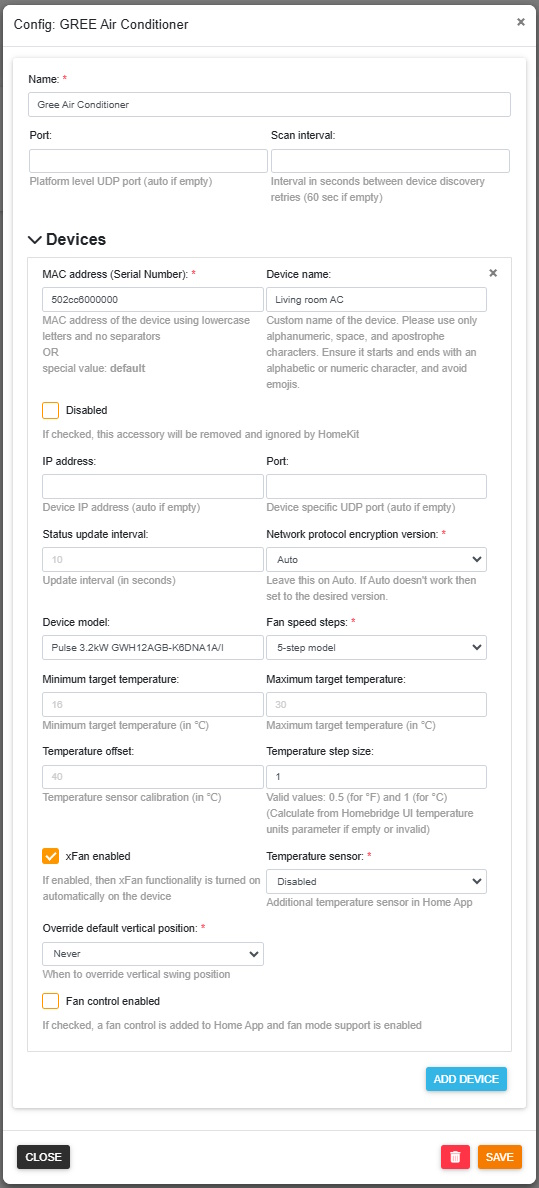
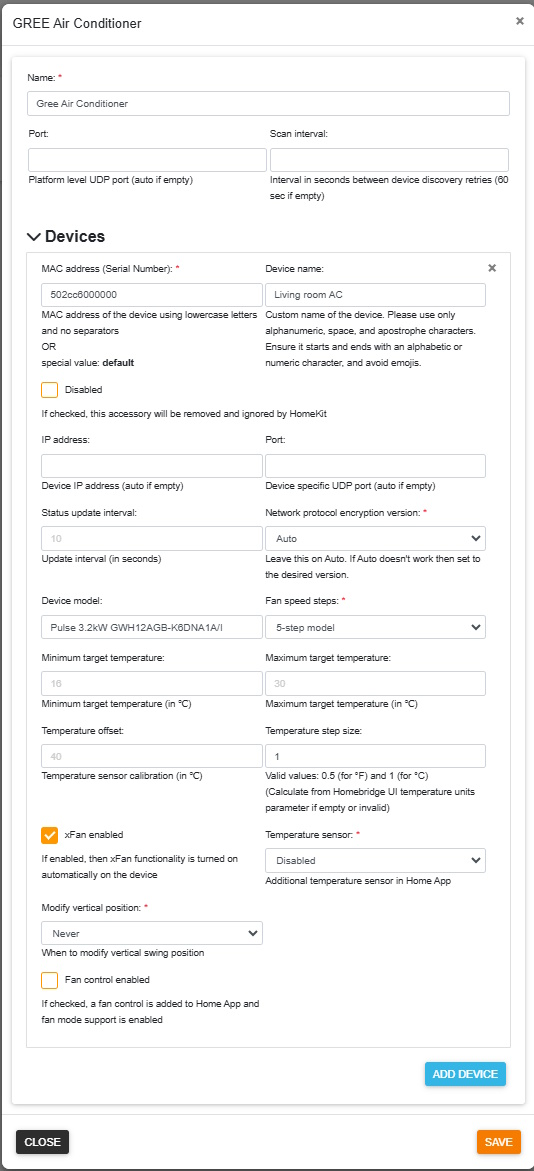
Extended vertical swing position configuration

diff --git a/src/platformAccessory.ts b/src/platformAccessory.ts
@@ -2,7 +2,7 @@ import dgram from 'dgram';
 import { Service, CharacteristicValue } from 'homebridge';
 
 import { GreeACPlatform, MyPlatformAccessory } from './platform';
-import { PLATFORM_NAME, PLUGIN_NAME, DeviceConfig, TEMPERATURE_TABLE, OVERRIDE_DEFAULT_SWING, TS_TYPE, BINDING_TIMEOUT,
+import { PLATFORM_NAME, PLUGIN_NAME, DeviceConfig, TEMPERATURE_TABLE, MODIFY_VERTICAL_SWING_POSITION, TS_TYPE, BINDING_TIMEOUT,
   TEMPERATURE_LIMITS, DEFAULT_DEVICE_CONFIG } from './settings';
 import { GreeAirConditionerTS } from './tsAccessory';
 import crypto from './crypto';
@@ -271,7 +271,7 @@ export class GreeAirConditioner {
       .onSet(this.setSwingMode.bind(this));
     this.Fan?.getCharacteristic(this.platform.Characteristic.SwingMode)
       .onGet(this.getSwingMode.bind(this))
-      .onSet(this.setSwingMode.bind(this));
+      .onSet(this.setFanSwingMode.bind(this));
 
     // register handlers for the Rotation Speed Characteristic
     this.HeaterCooler.getCharacteristic(this.platform.Characteristic.RotationSpeed)
@@ -368,10 +368,25 @@ export class GreeAirConditioner {
 
   async setSwingMode(value: CharacteristicValue) {
     const logValue = (value === this.platform.Characteristic.SwingMode.SWING_ENABLED) ? 'ENABLED' : 'DISABLED';
-    this.platform.log.debug(`[${this.getDeviceLabel()}] Set SwingMode ->`, logValue);
     this.swingMode = (value === this.platform.Characteristic.SwingMode.SWING_ENABLED) ?
-      commands.swingVertical.value.full : (this.deviceConfig.overrideDefaultVerticalSwing === OVERRIDE_DEFAULT_SWING.always) ?
-        this.deviceConfig.defaultVerticalSwing || DEFAULT_DEVICE_CONFIG.defaultVerticalSwing : commands.swingVertical.value.default;
+      commands.swingVertical.value.full : ([MODIFY_VERTICAL_SWING_POSITION.overrideDefPowerOnOscDisable,
+        MODIFY_VERTICAL_SWING_POSITION.setPowerOnOscDisable].includes(this.deviceConfig.modifyVerticalSwingPosition ||
+        DEFAULT_DEVICE_CONFIG.modifyVerticalSwingPosition) ? this.deviceConfig.defaultVerticalSwing ||
+        DEFAULT_DEVICE_CONFIG.defaultVerticalSwing : DEFAULT_DEVICE_CONFIG.defaultVerticalSwing);
+    this.platform.log.debug(`[${this.getDeviceLabel()}] Set SwingMode ->`, logValue + (logValue === 'DISABLED' ?
+      ` (Position: ${this.getKeyName(commands.swingVertical.value, this.swingMode)})` : ''));
+  }
+
+  async setFanSwingMode(value: CharacteristicValue) {
+    const logValue = (value === this.platform.Characteristic.SwingMode.SWING_ENABLED) ? 'ENABLED' : 'DISABLED';
+    this.swingMode = (value === this.platform.Characteristic.SwingMode.SWING_ENABLED) ?
+      commands.swingVertical.value.full : (this.deviceConfig.modifyVerticalSwingPosition ===
+        MODIFY_VERTICAL_SWING_POSITION.overrideDefPowerOnOscDisable ? this.deviceConfig.defaultVerticalSwing ||
+        DEFAULT_DEVICE_CONFIG.defaultVerticalSwing : (this.deviceConfig.modifyVerticalSwingPosition ===
+        MODIFY_VERTICAL_SWING_POSITION.setPowerOnOscDisable ? this.deviceConfig.defaultFanVerticalSwing ||
+        DEFAULT_DEVICE_CONFIG.defaultFanVerticalSwing : DEFAULT_DEVICE_CONFIG.defaultFanVerticalSwing));
+    this.platform.log.debug(`[${this.getDeviceLabel()}] Set Fan SwingMode ->`, logValue + (logValue === 'DISABLED' ?
+      ` (Position: ${this.getKeyName(commands.swingVertical.value, this.swingMode)})` : ''));
   }
 
   async setRotationSpeed(value: CharacteristicValue) {
@@ -995,8 +1010,11 @@ export class GreeAirConditioner {
               break;
           }
         }
-        if ([OVERRIDE_DEFAULT_SWING.always, OVERRIDE_DEFAULT_SWING.powerOn].includes(this.deviceConfig.overrideDefaultVerticalSwing ||
-          DEFAULT_DEVICE_CONFIG.overrideDefaultVerticalSwing) && this.swingMode === commands.swingVertical.value.default) {
+        if (([MODIFY_VERTICAL_SWING_POSITION.overrideDefPowerOnOscDisable, MODIFY_VERTICAL_SWING_POSITION.overrideDefPowerOn].includes(
+          this.deviceConfig.modifyVerticalSwingPosition || DEFAULT_DEVICE_CONFIG.modifyVerticalSwingPosition) &&
+          this.swingMode === commands.swingVertical.value.default) || ([MODIFY_VERTICAL_SWING_POSITION.setPowerOnOscDisable,
+          MODIFY_VERTICAL_SWING_POSITION.setPowerOn].includes(this.deviceConfig.modifyVerticalSwingPosition ||
+          DEFAULT_DEVICE_CONFIG.modifyVerticalSwingPosition))) {
           const value = this.deviceConfig.defaultVerticalSwing || DEFAULT_DEVICE_CONFIG.defaultVerticalSwing;
           command[commands.swingVertical.code] = value;
           logValue += (logValue ? ', ' : '') + 'swingVertical -> ' + this.getKeyName(commands.swingVertical.value, value);
@@ -1034,9 +1052,15 @@ export class GreeAirConditioner {
         command[commands.powerfulMode.code] = commands.powerfulMode.value.off;
         logValue += (logValue ? ', ' : '') + 'powerfulMode -> ' +
         this.getKeyName(commands.powerfulMode.value, commands.powerfulMode.value.off);
-        if ([OVERRIDE_DEFAULT_SWING.always, OVERRIDE_DEFAULT_SWING.powerOn].includes(this.deviceConfig.overrideDefaultVerticalSwing ||
-          DEFAULT_DEVICE_CONFIG.overrideDefaultVerticalSwing) && this.swingMode === commands.swingVertical.value.default) {
+        if ([MODIFY_VERTICAL_SWING_POSITION.overrideDefPowerOnOscDisable, MODIFY_VERTICAL_SWING_POSITION.overrideDefPowerOn].includes(
+          this.deviceConfig.modifyVerticalSwingPosition || DEFAULT_DEVICE_CONFIG.modifyVerticalSwingPosition) &&
+          this.swingMode === commands.swingVertical.value.default) {
           const value = this.deviceConfig.defaultVerticalSwing || DEFAULT_DEVICE_CONFIG.defaultVerticalSwing;
+          command[commands.swingVertical.code] = value;
+          logValue += (logValue ? ', ' : '') + 'swingVertical -> ' + this.getKeyName(commands.swingVertical.value, value);
+        } else if ([MODIFY_VERTICAL_SWING_POSITION.setPowerOnOscDisable, MODIFY_VERTICAL_SWING_POSITION.setPowerOn].includes(
+          this.deviceConfig.modifyVerticalSwingPosition || DEFAULT_DEVICE_CONFIG.modifyVerticalSwingPosition)) {
+          const value = this.deviceConfig.defaultFanVerticalSwing || DEFAULT_DEVICE_CONFIG.defaultFanVerticalSwing;
           command[commands.swingVertical.code] = value;
           logValue += (logValue ? ', ' : '') + 'swingVertical -> ' + this.getKeyName(commands.swingVertical.value, value);
         }

diff --git a/src/platform.ts b/src/platform.ts
@@ -4,7 +4,7 @@ import { API, DynamicPlatformPlugin, Logger, PlatformAccessory, PlatformConfig, 
 import { networkInterfaces } from 'os';
 import { readFileSync } from 'fs';
 
-import { PLATFORM_NAME, PLUGIN_NAME, UDP_SCAN_PORT, DEFAULT_DEVICE_CONFIG, OVERRIDE_DEFAULT_SWING, ENCRYPTION_VERSION, TS_TYPE,
+import { PLATFORM_NAME, PLUGIN_NAME, UDP_SCAN_PORT, DEFAULT_DEVICE_CONFIG, MODIFY_VERTICAL_SWING_POSITION, ENCRYPTION_VERSION, TS_TYPE,
   DEF_SCAN_INTERVAL, TEMPERATURE_LIMITS, TEMPERATURE_STEPS} from './settings';
 import { GreeAirConditioner } from './platformAccessory';
 import commands from './commands';
@@ -204,8 +204,17 @@ export class GreeACPlatform implements DynamicPlatformPlugin {
         commands.swingVertical.value.fixedHigher, commands.swingVertical.value.fixedMiddle, commands.swingVertical.value.fixedLower,
         commands.swingVertical.value.fixedLowest].includes(devcfg.defaultVerticalSwing) ?
         { defaultVerticalSwing: DEFAULT_DEVICE_CONFIG.defaultVerticalSwing } : {}),
-      ...(devcfg.overrideDefaultVerticalSwing && !Object.values(OVERRIDE_DEFAULT_SWING).includes(devcfg.overrideDefaultVerticalSwing) ?
-        { overrideDefaultVerticalSwing: DEFAULT_DEVICE_CONFIG.overrideDefaultVerticalSwing } : {}),
+      ...(devcfg.defaultFanVerticalSwing && ![commands.swingVertical.value.default, commands.swingVertical.value.fixedHighest,
+        commands.swingVertical.value.fixedHigher, commands.swingVertical.value.fixedMiddle, commands.swingVertical.value.fixedLower,
+        commands.swingVertical.value.fixedLowest].includes(devcfg.defaultFanVerticalSwing) ?
+        { defaultFanVerticalSwing: DEFAULT_DEVICE_CONFIG.defaultFanVerticalSwing } : {}),
+      // overrideDefaultVerticalSwing remains here for compatibility reasons
+      ...(devcfg.overrideDefaultVerticalSwing &&
+        !Object.values(MODIFY_VERTICAL_SWING_POSITION).includes(devcfg.overrideDefaultVerticalSwing) ?
+        { overrideDefaultVerticalSwing: DEFAULT_DEVICE_CONFIG.modifyVerticalSwingPosition } : {}),
+      ...(devcfg.modifyVerticalSwingPosition &&
+        !Object.values(MODIFY_VERTICAL_SWING_POSITION).includes(devcfg.modifyVerticalSwingPosition) ?
+        { modifyVerticalSwingPosition: DEFAULT_DEVICE_CONFIG.modifyVerticalSwingPosition } : {}),
       ...(devcfg.encryptionVersion && !Object.values(ENCRYPTION_VERSION).includes(devcfg.encryptionVersion) ?
         { encryptionVersion: DEFAULT_DEVICE_CONFIG.encryptionVersion } : {}),
     };
@@ -266,10 +275,24 @@ export class GreeACPlatform implements DynamicPlatformPlugin {
       commands.swingVertical.value.fixedHigher, commands.swingVertical.value.fixedMiddle, commands.swingVertical.value.fixedLower,
       commands.swingVertical.value.fixedLowest].includes(deviceConfig.defaultVerticalSwing)) {
       deviceConfig.defaultVerticalSwing = DEFAULT_DEVICE_CONFIG.defaultVerticalSwing;
+      this.log.warn('Warning: Invalid vertical position detected ->',
+        `Accessory ${deviceInfo.mac} is using default value instead of the configured one`);
     }
+    if (deviceConfig.defaultFanVerticalSwing && ![commands.swingVertical.value.default, commands.swingVertical.value.fixedHighest,
+      commands.swingVertical.value.fixedHigher, commands.swingVertical.value.fixedMiddle, commands.swingVertical.value.fixedLower,
+      commands.swingVertical.value.fixedLowest].includes(deviceConfig.defaultFanVerticalSwing)) {
+      deviceConfig.defaultFanVerticalSwing = DEFAULT_DEVICE_CONFIG.defaultFanVerticalSwing;
+      this.log.warn('Warning: Invalid vertical fan position detected ->',
+        `Accessory ${deviceInfo.mac} is using default value instead of the configured one`);
+    }
+    // overrideDefaultVerticalSwing remains here for compatibility reasons
     if (deviceConfig.overrideDefaultVerticalSwing &&
-      !Object.values(OVERRIDE_DEFAULT_SWING).includes(deviceConfig.overrideDefaultVerticalSwing)) {
-      deviceConfig.overrideDefaultVerticalSwing = DEFAULT_DEVICE_CONFIG.overrideDefaultVerticalSwing;
+      !Object.values(MODIFY_VERTICAL_SWING_POSITION).includes(deviceConfig.overrideDefaultVerticalSwing)) {
+      deviceConfig.overrideDefaultVerticalSwing = DEFAULT_DEVICE_CONFIG.modifyVerticalSwingPosition;
+    }
+    if (deviceConfig.modifyVerticalSwingPosition &&
+      !Object.values(MODIFY_VERTICAL_SWING_POSITION).includes(deviceConfig.modifyVerticalSwingPosition)) {
+      deviceConfig.modifyVerticalSwingPosition = DEFAULT_DEVICE_CONFIG.modifyVerticalSwingPosition;
     }
     if (deviceConfig.encryptionVersion && !Object.values(ENCRYPTION_VERSION).includes(deviceConfig.encryptionVersion)) {
       deviceConfig.encryptionVersion = DEFAULT_DEVICE_CONFIG.encryptionVersion;
@@ -279,6 +302,19 @@ export class GreeACPlatform implements DynamicPlatformPlugin {
       this.log.warn('Warning: Port is misconfigured (Valid port values: 1025~65535 or leave port empty to auto select) - ' +
         `Accessory ${deviceInfo.mac} listening port overridden: ${deviceConfig.port} -> auto`);
       delete deviceConfig.port;
+    }
+    // replace deprecated overrideDefaultVerticalSwing with new modifyVerticalSwingPosition
+    if (deviceConfig.overrideDefaultVerticalSwing !== undefined && !deviceConfig.modifyVerticalSwingPosition) {
+      // found deprecated but missing new
+      this.log.warn('Deprecated configuration parameter found: overrideDefaultVerticalSwing - ' +
+        `Accessory ${deviceInfo.mac} parameter value: ${deviceConfig.overrideDefaultVerticalSwing} -> use modifyVerticalSwingPosition`);
+      deviceConfig.modifyVerticalSwingPosition = deviceConfig.overrideDefaultVerticalSwing;
+      delete deviceConfig.overrideDefaultVerticalSwing;
+    } else if (deviceConfig.overrideDefaultVerticalSwing !== undefined && deviceConfig.modifyVerticalSwingPosition !== undefined) {
+      // found both deprecated and new -> keep new only
+      this.log.warn('Deprecated configuration parameter found: overrideDefaultVerticalSwing - ' +
+        `Accessory ${deviceInfo.mac} parameter value: ${deviceConfig.overrideDefaultVerticalSwing} -> ignoring`);
+      delete deviceConfig.overrideDefaultVerticalSwing;
     }
     // force encryption version if set in config
     if (deviceConfig.encryptionVersion !== ENCRYPTION_VERSION.auto) {

diff --git a/src/settings.ts b/src/settings.ts
@@ -9,10 +9,12 @@ export const PLATFORM_NAME = 'GREEAirConditioner';
  */
 export const PLUGIN_NAME = 'homebridge-gree-ac';
 
-export const OVERRIDE_DEFAULT_SWING = {
+export const MODIFY_VERTICAL_SWING_POSITION = {
   never: 0,
-  powerOn: 1,
-  always: 2,
+  overrideDefPowerOn: 1,
+  overrideDefPowerOnOscDisable: 2,
+  setPowerOn: 3,
+  setPowerOnOscDisable: 4,
 };
 
 export const ENCRYPTION_VERSION = {
@@ -45,7 +47,9 @@ export interface DeviceConfig {
   temperatureStepSize?: number;
   disabled?: boolean;
   defaultVerticalSwing?: number;
-  overrideDefaultVerticalSwing?: number;
+  defaultFanVerticalSwing?: number;
+  overrideDefaultVerticalSwing?: number; // deprecated, new parameter: modifyVerticalSwingPosition
+  modifyVerticalSwingPosition?: number;
   encryptionVersion?: number;
   port?: number;
   ip?: string;
@@ -56,7 +60,8 @@ export interface DeviceConfig {
 interface DefaultDeviceConfig extends DeviceConfig {
   temperatureStepSize: number;
   defaultVerticalSwing: number;
-  overrideDefaultVerticalSwing: number;
+  defaultFanVerticalSwing: number;
+  modifyVerticalSwingPosition: number;
   encryptionVersion: number;
 }
 
@@ -70,7 +75,8 @@ export const DEFAULT_DEVICE_CONFIG: DefaultDeviceConfig = {
   temperatureSensor: TS_TYPE.disabled,
   temperatureStepSize: TEMPERATURE_STEPS.fahrenheit,
   defaultVerticalSwing: commands.swingVertical.value.default,
-  overrideDefaultVerticalSwing: OVERRIDE_DEFAULT_SWING.never,
+  defaultFanVerticalSwing: commands.swingVertical.value.default,
+  modifyVerticalSwingPosition: MODIFY_VERTICAL_SWING_POSITION.never,
   encryptionVersion: ENCRYPTION_VERSION.auto,
 };
 

diff --git a/README.md b/README.md
@@ -27,7 +27,7 @@ xFan function is supported, but it works automatically if enabled in Homebridge 
 
 Temperature display units of the physical device can be controlled using the Home App. (Configuration settings are required to be specified always in Degrees Celsius, independently from the display units.)
 
-Vertical swing mode can be turned on/off, but special swing settings can't be controlled using the Home App. If device default vertical swing position is not acceptable when oscillation is disabled, it can be overridden to a pre selected position by configuration settings. (Only default position is overridden when this feature is enabled. Other positions selected by remote control are kept and not modified by Home App.)
+Vertical swing mode can be turned on/off, but special swing settings can't be controlled using the Home App. If device default vertical swing position is not acceptable when oscillation is disabled, it can be set to a pre selected position by configuration settings. (There are multiple options for configuring the plugin to update the vertical swing position.)
 
 This plugin is designed to be as simple and clear as possible and supports primarily the functions of the Home App's Heater Cooler accessory.
 
@@ -83,12 +83,19 @@ If successfully installed and configured, your devices will appear on the Homebr
 
 Always check out your current settings in Homebridge and also in Home App (including scenes and automation rules) before you start an upgrade!
 
-### Any version to v2.1.7 - v2.2.0
+### v2.1.7 to v2.2.0
 
-The upgrade is automatic by installing the latest version. If upgrading from v2.1.6 or later no configuration changes are needed to continue the use of the plugin with original settings. Please see the following upgrade sections if upgrading from an earlier version.
+The upgrade is automatic by installing the latest version. It is highly recommended to update the configuration settings because some new parameters were introduced in v2.2.0 and there is also a parameter which was renamed.
 
 Fan mode support is new in version v2.2.0. It is disabled by default. To enable it the "fanControlEnabled" parameter must be set in configuration file.
-In v2.2.0 it is also possible to set default customized parameters for multiple devices by adding a special device with MAC address set to 'default'. To use this feature it is required to update the plugin's configuration.
+
+In v2.2.0 it is also possible to set default customized parameters for multiple devices by adding a special device with MAC address set to 'default'.
+
+The "overrideDefaultVerticalSwing" configuration parameter was renamed to "modifyVerticalSwingPosition" and new options were added to support some new cases.
+
+### Any version to v2.1.7
+
+The upgrade is automatic by installing the latest version. If upgrading from v2.1.6 no configuration changes are needed to continue the use of the plugin with original settings. Please see the following upgrade sections if upgrading from an earlier version.
 
 **Important change: All devices are automatically added to the Home App if they are not listed and disabled in configuration and they are located on the same subnet.** Earlier versions skipped the devices which were not found in configuration file.
 
@@ -221,9 +228,10 @@ It is possible to set some or all parameters to a customized value which is assi
                     "temperatureStepSize": 1,
                     "temperatureSensor": "disabled",
                     "xFanEnabled": true,
-                    "overrideDefaultVerticalSwing": 0,
+                    "modifyVerticalSwingPosition": 0,
                     "defaultVerticalSwing": 0,
                     "fanControlEnabled": false,
+                    "defaultFanVerticalSwing": 0,
                     "disabled": false
                 }
             ]
@@ -270,9 +278,10 @@ You can always override any default parameter by adding a device identified by M
                     "temperatureStepSize": 1,
                     "temperatureSensor": "disabled",
                     "xFanEnabled": true,
-                    "overrideDefaultVerticalSwing": 0,
+                    "modifyVerticalSwingPosition": 0,
                     "defaultVerticalSwing": 0,
                     "fanControlEnabled": false,
+                    "defaultFanVerticalSwing": 0,
                     "disabled": false
                 }
             ]
@@ -300,9 +309,10 @@ _It's not recommended to add the port and ip parameters. The above example conta
   * **temperatureStepSize*** - numeric parameter, valid values: 0.5 and 1 (if missing then default value is based on the UI configuration: 0.5 if UI is set to Fahrenheit temperature units and 1 if UI is set to Celsius temperature units) Controls the acceptable temperature values in Home App (It is recommended to set it to 1 if Celsius display mode is used on the AC unit and 0.5 in Fahrenheit display mode.)
   * **temperatureSensor** - controls additional temperature sensor accessory in Home App (disabled = do not add to Home App / child = add as a child accessory / separate = add as a separate (independent) accessory) _Only independent accessories can be used by automations to control other accessories._
   * **xFanEnabled** - automatically turn on xFan functionality in supported device modes (xFan actual setting is not modified by the Home App if disabled)
-  * **overrideDefaultVerticalSwing** - by default this plugin sets the vertical swing position to the default position of the AC device when oscillation is turned off; this parameter allows the plugin to override the default position (the actual position is controlled by the "defaultVerticalSwing" parameter); valid values: Never (0) = turn off override, let device use default / After power on (1) = override the default position each time the device is powered on / After power on and swing disable (2) = override the default position each time the device is powered on and when oscillation is turned off (by the Home App) _(Each time powered on means that one of the enabled accessories (Heater Cooler or Fan) will be set to active)_
-  * **defaultVerticalSwing** - specify the vertical swing position to be used instead of device default when overriding is enabled (Device default (0) = use device default, same position as used by device by default without overriding / one of the following 5 positions: fixed Highest (2), fixed Higher (3), fixed Middle (4), fixed Lower (5), fixed Lowest (6)) _(Only the default position is changing to the selected one when turning on the device. All other positions are kept by the Home App. Turning off oscillation sets the selected fixed position.)_
+  * **modifyVerticalSwingPosition** - by default this plugin sets the vertical swing position to the default position of the AC device when oscillation is turned off and leaves the position untouched when the device is powered on; this parameter allows the plugin to modify the vertical swing position (the actual position is controlled by the "defaultVerticalSwing" and/or the "defaultFanVerticalSwing" parameters); valid values: Never (0) = do not modify vertical swing position, let device use default / Override default after power on (1) = override the default position each time the device is powered on _(Only the default position is changing to the selected one when turning on the device. All other positions are kept by the Home App.)_ / Override default after power on or osciallation off (2) = override the default position each time the device is powered on and when oscillation is turned off by the Home App _(Only the default position is changing to the selected one when turning on the device. All other positions are kept by the Home App. Turning off oscillation sets the selected fixed position.)_ / Always set after power on (3) = set the device to the specified vertical position each time it is powered on (regardless of the actual vertical position) / Always set after power on or osciallation off (4) = set the device to the specified vertical position each time it is powered on and when osciallation is turned off by the Home App (regardless of the actual vertical position) _(Each time powered on means that one of the enabled accessories (Heater Cooler or Fan) will be set to active)_
+  * **defaultVerticalSwing** - specify the vertical swing position to be used when the plugin modifies is; if overriding is selected, then this value is valid for both heating/cooling and fan modes; if always set is selected, then this value controls only the heating/cooling modes not fan mode; valid values: Device default (0) = use device default, same position as used by the device by default without selecting a specific position / one of the following 5 positions: fixed Highest (2), fixed Higher (3), fixed Middle (4), fixed Lower (5), fixed Lowest (6)
   * **fanControlEnabled** - by default fan mode is not supported by the plugin because Apple's Heater Cooler accessory does not support fan mode; setting this parameter to true adds an additional Fan accessory to the Home App and turns on fan mode support in the plugin
+  * **defaultFanVerticalSwing** - specify the vertical swing position to be set in fan mode when always set is selected; valid values: Device default (0) = use device default, same position as used by the device by default without selecting a specific position / one of the following 5 positions: fixed Highest (2), fixed Higher (3), fixed Middle (4), fixed Lower (5), fixed Lowest (6)
   * **disabled** - set to true if you do not want to control this device in the Home App _(can be used also to temporarily remove the device from Home App but not if the device is not responding on the network any more)_
 
 (*) these parameters are initalized only once on device enable; device must be disabled an re-enabled to apply a new value; name is customizable in Home App independently from Homebridge settings
